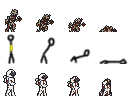
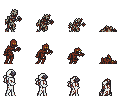
added sprites for regen guy

diff --git a/arteffects.py b/arteffects.py
@@ -57,7 +57,7 @@ def is_valid_pos(xy, surf):
 
 def add_outline(surf, outline_color):
     res = surf.copy()
-    neighbors = [(-1, 0), (0, 1), (0, -1), (0, 1)]
+    neighbors = [(-1, 0), (1, 0), (0, -1), (0, 1)]
     for x in range(0, surf.get_width()):
         for y in range(0, surf.get_height()):
             color_at = surf.get_at((x, y))
@@ -101,6 +101,7 @@ def gen_death_animation(infile, outfile, n_frames=4,
         x += f.get_width()
 
     pygame.image.save(outsurf, outfile)
+    print(f"created {outfile}")
 
 
 if __name__ == "__main__":
@@ -111,4 +112,5 @@ if __name__ == "__main__":
     gen_death_animation("res/gfx_new/player_single.png", "gen/player_corpse_ss.png", compression=0.5, blood_rate=0.3, xshift_rate=0, decay_rate=0)
     gen_death_animation(("res/gfx_new/large_enemy_ss.png", (0, 0, 48, 48)), "gen/large_enemy_corpse_ss.png", compression=0.6, xshift_rate=0.05)
     gen_death_animation(("res/gfx_new/spider_enemy_ss.png", (0, 0, 32, 16)), "gen/spider_enemy_corpse_ss.png", compression=0.3)
+    gen_death_animation(("res/gfx_new/recover_enemy_ss.png", (0, 0, 16, 32)), "gen/recover_enemy_death_seq.png")
 
